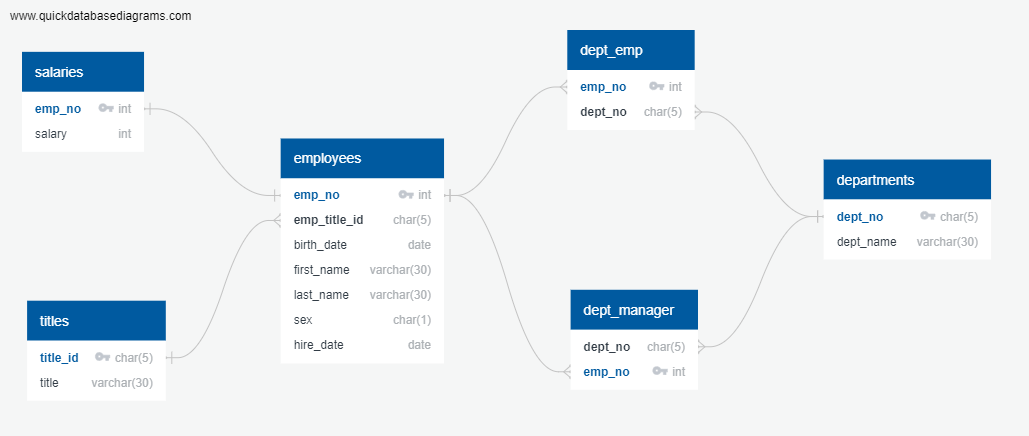
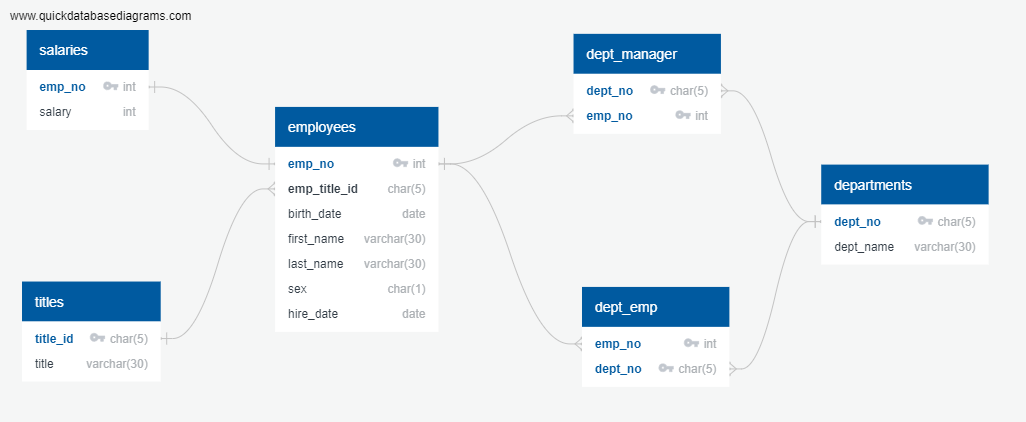
working copy of code for final upload

diff --git a/README.md b/README.md
@@ -1,6 +1,6 @@
 # sql-challenge
 
-Module 9 SQL Challenge: Due: 2 MAR 2023
+Module 9 SQL Challenge
 
 ### Background
 
@@ -26,8 +26,10 @@ This Challenge is divided into three parts: data modeling, data engineering, and
 
 #### Data Modeling
 
-Inspect the CSV files, and then sketch an Entity Relationship Diagram of the tables. Used QuickDBD to create the sketch (link below):
-[QuickDBD] found at (http://www.quickdatabasediagrams.com).
+1. Inspect the CSV files, and then sketch an Entity Relationship Diagram of the tables. Used QuickDBD to create the sketch (link below):
+   [QuickDBD] found at (http://www.quickdatabasediagrams.com).
+   This project's diagram can be found at https://app.quickdatabasediagrams.com/#/d/cfTSbZ
+2. Used the associated schema.sql to set up the tables in my PostgreSQL 15 and manually imported the files through the Import/Export Tool
 
 #### Data Engineering
 
@@ -58,3 +60,23 @@ Inspect the CSV files, and then sketch an Entity Relationship Diagram of the tab
 7. List each employee in the Sales and Development departments, including their employee number, last name, first name, and department name.
 
 8. List the frequency counts, in descending order, of all the employee last names (that is, how many employees share each last name).
+
+#### Bonus
+
+1. Import the SQL database into Pandas. (Yes, I could read the CSVs directly in Pandas, but I am, after all, trying to prove my technical mettle.) This step required some research. I used the following code to get started. Made the necessary modifications for your username, password, host, port, and database name:
+
+   ```sql
+   from sqlalchemy import create_engine
+   engine = create_engine('postgresql://localhost:5432/<your_db_name>')
+   connection = engine.connect()
+   ```
+
+   - Consult the [SQLAlchemy documentation](https://docs.sqlalchemy.org/en/latest/core/engines.html#postgresql) for more information.
+
+   - If you’re using a password, do not upload your password to your GitHub repository. Review this [video](https://www.youtube.com/watch?v=2uaTPmNvH0I) and the [GitHub website](https://help.github.com/en/github/using-git/ignoring-files) for more information.
+
+2. Create a histogram to visualize the most common salary ranges for employees.
+
+3. Create a bar chart of average salary by title.
+
+## end of assignment
